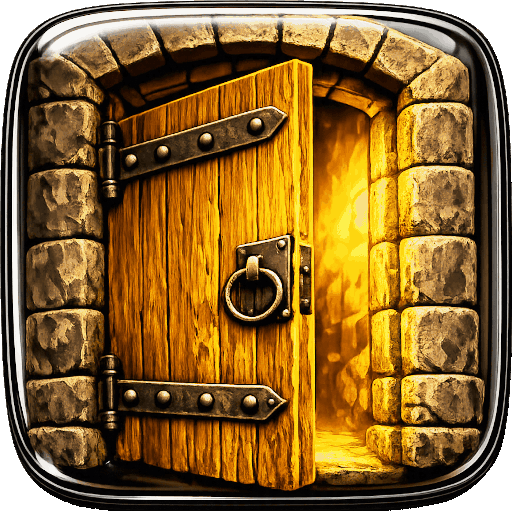
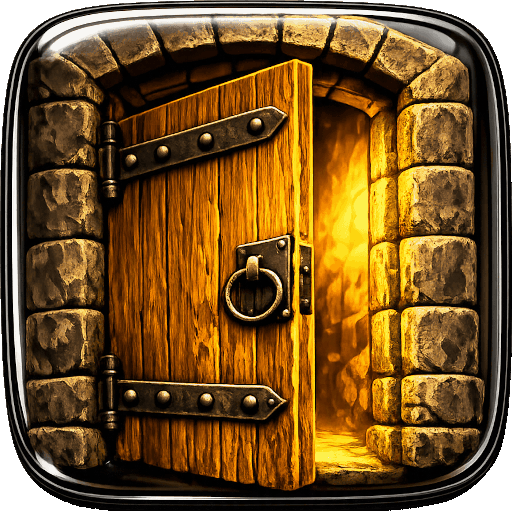
Exit Button finetuned

diff --git a/Redemption Coliseum/client/src/ui/components/SidebarButton.ts b/Redemption Coliseum/client/src/ui/components/SidebarButton.ts
@@ -28,7 +28,7 @@ export class SidebarButton {
       .setOrigin(0.5)
       .setInteractive({ useHandCursor: true })
       .setDisplaySize(48, 48)
-      .setAlpha(0.6)
+      .setAlpha(0.8)
       .setDepth(9999);
 
     this.image.on("pointerover", () => {
